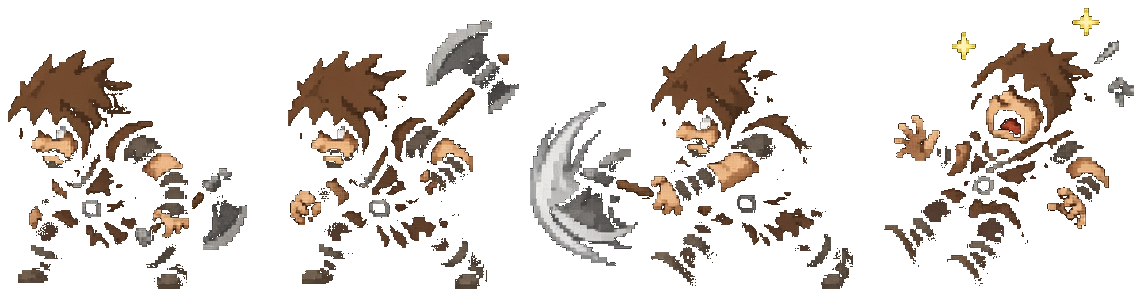
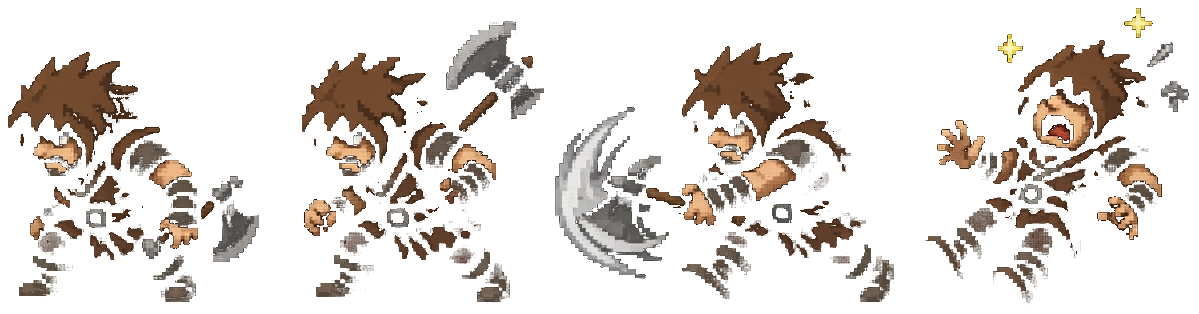
炎烬之誓：最早风缇娅/山贼单帧贴地，暴击复用四帧
换回规格 A 的单帧（不是 300px 横条）。脚底锚在 FEET_Y 520，按待机身高缩到 154px，过滤为最近邻。没有单独 _crit，其它职业仍走程序 Q 版。

diff --git a/ember_oath/docs/design.md b/ember_oath/docs/design.md
@@ -184,7 +184,7 @@
 - 回合制战棋主循环（我方阶段 / 敌方 AI 阶段）
 - BFS 移动范围、路径预览、危险范围（T 键）
 - 战斗系统：相克/追击/命中回避/地形加成/反击武器自动选择
-- **战斗特写演出**（横版对砍 + 震屏 + 伤害数字 + HP 条联动）。条带只有最早风的缇娅铁剑与山贼铁斧（各含单独的 `_crit`，帧序 1,2,2,3），高 300、最近邻。其它职业用程序 Q 版，不留日系整包。
+- **战斗特写演出**（横版对砍 + 震屏 + 伤害数字 + HP 条联动）。像素帧只有最早风的缇娅铁剑与山贼铁斧（单帧 `00`–`03`，没有单独 `_crit`，暴击复用这四帧）。脚底锚在 `FEET_Y=520`，按待机身高缩到约 154px，过滤为最近邻。其它职业用程序 Q 版，不留日系整包。
 - 经验/升级/成长率掷点
 - 章节事件：教学提示、民居访问、角色对话、第 3 回合增援、BOSS 特殊对话、胜负判定
 - 剧情系统：打字机对话框 + AI 立绘（6 张）
